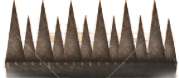
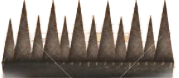
Ajout d'ennemies

diff --git a/src/com/company/GameScene.java b/src/com/company/GameScene.java
@@ -10,6 +10,9 @@ import javafx.scene.input.KeyCode;
 import javafx.scene.input.KeyEvent;
 import javafx.scene.layout.Pane;
 
+import java.util.ArrayList;
+import java.util.Random;
+
 
 /** Classe qui définit une scène et les objets présents dessus, notamment :
  * - Background
@@ -25,7 +28,14 @@ public class GameScene extends Scene {
     private StaticThing right;
     private StaticThing right2;
     private LifeCount lifebar;
-    private Hero hero= new Hero(300,250 ,0,"C:\\Users\\oscar\\IdeaProjects\\Runner_Project\\heros.png", 84, 100 );;
+    private Hero hero= new Hero(300,250 ,0,"C:\\Users\\oscar\\IdeaProjects\\Runner_Project\\heros.png", 84, 100 );
+
+    private ArrayList<Foe> traps = new ArrayList<Foe>();
+    private StaticThing gameoverscene=new StaticThing(666,375,"C:\\Users\\oscar\\IdeaProjects\\Runner_Project\\Game Over.png");
+
+    static Random rand = new Random();
+
+
 
     public GameScene(Pane root, double width, double height, boolean depthbuffer) {
         super(root, width, height, depthbuffer);
@@ -34,6 +44,11 @@ public class GameScene extends Scene {
         this.right = new StaticThing(800, 600, "C:\\Users\\oscar\\IdeaProjects\\Runner_Project\\desert.png");
         this.right2 = new StaticThing(800, 600, "C:\\Users\\oscar\\IdeaProjects\\Runner_Project\\desert.png");
         this.lifebar=new LifeCount(499,499,"C:\\Users\\oscar\\IdeaProjects\\Runner_Project\\health_bar.png");
+
+        for (int k=0;k<10;k++){
+            this.traps.add(new Foe(2000+rand.nextInt(10000), 290, 3, "C:\\Users\\oscar\\IdeaProjects\\Runner_Project\\trap.png", 179, 78));
+        }
+
 
         /** Initialisation du background et du héros*/
         left.getImg().setX(0);
@@ -44,18 +59,26 @@ public class GameScene extends Scene {
 
         lifebar.getImg().setX(-30);
         lifebar.getImg().setY(-35);
-        lifebar.getImg().setViewport(new Rectangle2D(0,10,499,110));
+        lifebar.getImg().setViewport(new Rectangle2D(0,10,499,105));
         lifebar.getImg().setFitHeight(90);
         lifebar.getImg().setFitWidth(300);
         lifebar.getImg().setPreserveRatio(false);
+
+        gameoverscene.getImg().setY(2000); // hors de l'écran
+        gameoverscene.getImg().setFitHeight(500);
+        gameoverscene.getImg().setFitWidth(1000);
+        gameoverscene.getImg().setPreserveRatio(false);
 
         root.getChildren().add(left.getImg());
         root.getChildren().add(right.getImg());
         root.getChildren().add(right2.getImg());
         root.getChildren().add(lifebar.getImg());
+        for (Foe t: traps) {
+            root.getChildren().add(t.getImg());
+        }
 
-
-        root.getChildren().add(hero.getImgAT());
+        root.getChildren().add(hero.getImg());
+        root.getChildren().add(gameoverscene.getImg());
 
         timer.start();
 
@@ -65,8 +88,6 @@ public class GameScene extends Scene {
                     hero.jump();
                 }
             }
-
-
         });
     }
 
@@ -82,9 +103,27 @@ public class GameScene extends Scene {
        {public void handle(long now){
         if (now - lastUpdate >= 15500000) {
             hero.update();
+            hero.setInvincibility((hero.getInvincibility()-5000000));
             update();
+            for (Foe t: traps){
+                t.update();
+            }
+            if (!hero.isInvicible()){
+                for (Foe t : traps) {
+                    if (t.GetHitbox().intersects(hero.GetHitbox())) {
+                        System.out.println("intersect");
+                        System.out.println(hero.getInvincibility());
+                        hero.setInvincibility(250000000);
+                        lifebar.lifelost();
+                        if (lifebar.getNboflives() == 0) {
+                            gameoverscene.getImg().setY(-50);
+                            gameoverscene.getImg().setX(270);
+                            timer.stop();
+                        }
+                    }
+                }
+            }
             lastUpdate=now;
-            //      Cam.update(time);
         }
         }
     };

diff --git a/src/com/company/AnimatedThing.java b/src/com/company/AnimatedThing.java
@@ -4,19 +4,19 @@ import javafx.geometry.Rectangle2D;
 import javafx.scene.image.Image;
 import javafx.scene.image.ImageView;
 
+import static com.company.GameScene.rand;
+
 public abstract class AnimatedThing {
     private double x;
     private double y;
-    private ImageView img;
+    protected ImageView img;
     private Integer attitude;
     private String path;
 
     private Integer index;
     private Integer indexMax=16;
-    private Integer timeframe;
     private Integer windowSizeX;
     private Integer windowSizeY;
-    private Integer offset;
     private Rectangle2D frame;
 
     private Integer divfreq=0;
@@ -40,17 +40,17 @@ public abstract class AnimatedThing {
 
         /** Setter et Getter */
 
-    public ImageView getImgAT() {
+    public ImageView getImg() {
         return img;
     }
 
     public void setXpos(double x) {
-        this.getImgAT().setX(x);
+        this.getImg().setX(x);
         this.x=x;
     }
 
     public void setYpos(double y) {
-        this.getImgAT().setY(y);
+        this.getImg().setY(y);
         this.y=y;
     }
 
@@ -81,7 +81,7 @@ public abstract class AnimatedThing {
 
         // "Jumping" (up)
         if (attitude==1 ) {
-            this.img.setViewport(new Rectangle2D(0, 120, this.windowSizeX, this.windowSizeY+30));
+            this.img.setViewport(new Rectangle2D(0, 120, this.windowSizeX, this.windowSizeY+40));
             if (i==0) {
                 this.setAttitude(-1);
             }
@@ -91,7 +91,7 @@ public abstract class AnimatedThing {
 
         // "Jumping" (down)
         if (attitude==-1 ) {
-            this.img.setViewport(new Rectangle2D( 84 , 120,this.windowSizeX, this.windowSizeY+30));
+            this.img.setViewport(new Rectangle2D( 84 , 120,this.windowSizeX, this.windowSizeY+40));
             if(i==22){
                 i+=1;
                 this.img.setViewport(new Rectangle2D( 0 , 0,this.windowSizeX, this.windowSizeY));
@@ -101,8 +101,18 @@ public abstract class AnimatedThing {
             i+=1;
             this.setYpos(this.getYpos()+i);
         }
+        if (attitude==3){
+            this.setXpos(this.getXpos()-10);
+            if (this.getXpos()<-200){
+                this.setXpos(2000+rand.nextInt(10000));
+            }
+        }
 
         
+    }
+
+    public Rectangle2D GetHitbox(){
+        return new Rectangle2D(this.x,this.y,this.windowSizeX,this.windowSizeY);
     }
 }
 

diff --git a/src/com/company/Hero.java b/src/com/company/Hero.java
@@ -4,14 +4,33 @@ import javafx.scene.image.ImageView;
 
 public class Hero extends AnimatedThing {
 
+
+    private double invincibility =0; // = 250000000
+
     public Hero(double x,double y,Integer attitude,String path, Integer windowSizeX,Integer windowSizeY) {
         super(x,y,attitude,path,windowSizeX,windowSizeY);
 
 
     }
 
+    public void setInvincibility(double invincibility) {
+        this.invincibility = invincibility;
+    }
+
+    public double getInvincibility() {
+        return invincibility;
+    }
+
     public void jump(){
         this.setAttitude(1);
+    }
+
+    public boolean isInvicible(){
+        if (this.invincibility>0) {
+            return true;
+        }else{
+            return false;
+        }
     }
 
 

diff --git a/src/com/company/LifeCount.java b/src/com/company/LifeCount.java
@@ -6,19 +6,21 @@ import javafx.scene.image.ImageView;
 
 public class LifeCount extends StaticThing{
 
-    private ImageView img;
+
     private Integer Nboflives;
 
     public LifeCount(double l, double h, String path) {
         super(l, h, path);
-        Image spriteSheet = new Image(path);
-        this.img = new ImageView(spriteSheet);
         this.Nboflives=5;
 
     }
 
+    public Integer getNboflives() {
+        return Nboflives;
+    }
 
     public void lifelost(){
-        this.img.setViewport(new Rectangle2D(0,10+(5-this.Nboflives)*110,499,118));
+       this.Nboflives-=1;
+       this.img.setViewport(new Rectangle2D(0,7+(5-this.Nboflives)*79,499,118));
     }
 }

diff --git a/src/com/company/Foe.java b/src/com/company/Foe.java
@@ -1,0 +1,19 @@
+package com.company;
+
+import javafx.scene.image.Image;
+import javafx.scene.image.ImageView;
+
+import java.util.ArrayList;
+
+public class Foe extends AnimatedThing{
+
+ //   private ImageView img;
+
+    public Foe(double x, double y, Integer attitude, String path, Integer windowSizeX, Integer windowSizeY) {
+        super(x, y, attitude, path, windowSizeX, windowSizeY);
+ //       Image spriteSheet = new Image(path);
+ //       this.img = new ImageView(spriteSheet);
+    }
+
+
+}

diff --git a/src/com/company/StaticThing.java b/src/com/company/StaticThing.java
@@ -13,7 +13,7 @@ public class StaticThing {
     private double length;
     private double height;
     private String path;
-    private ImageView img;
+    protected ImageView img;
     private Integer Nboflives;
 
     public StaticThing(double l,double h,String path){
